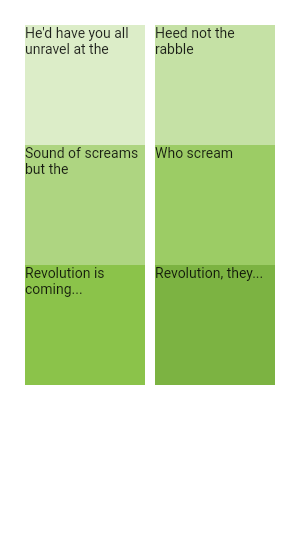
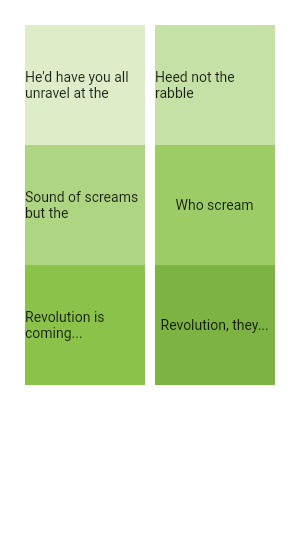
Center GridView text

diff --git a/packages/diagrams/lib/src/grid_view.dart b/packages/diagrams/lib/src/grid_view.dart
@@ -31,12 +31,12 @@ class GridViewDiagram extends StatelessWidget implements DiagramMetadata {
           crossAxisSpacing: 10.0,
           crossAxisCount: 2,
           children: <Widget>[
-            Container(child: const Text('He\'d have you all unravel at the'), color: Colors.teal[100]),
-            Container(child: const Text('Heed not the rabble'), color: Colors.teal[200]),
-            Container(child: const Text('Sound of screams but the'), color: Colors.teal[300]),
-            Container(child: const Text('Who scream'), color: Colors.teal[400]),
-            Container(child: const Text('Revolution is coming...'), color: Colors.teal[500]),
-            Container(child: const Text('Revolution, they...'), color: Colors.teal[600]),
+            Container(child: const Center(child: Text('He\'d have you all unravel at the')), color: Colors.teal[100]),
+            Container(child: const Center(child: Text('Heed not the rabble')), color: Colors.teal[200]),
+            Container(child: const Center(child: Text('Sound of screams but the')), color: Colors.teal[300]),
+            Container(child: const Center(child: Text('Who scream')), color: Colors.teal[400]),
+            Container(child: const Center(child: Text('Revolution is coming...')), color: Colors.teal[500]),
+            Container(child: const Center(child: Text('Revolution, they...')), color: Colors.teal[600]),
           ],
         );
         break;
@@ -50,12 +50,12 @@ class GridViewDiagram extends StatelessWidget implements DiagramMetadata {
                 crossAxisSpacing: 10.0,
                 crossAxisCount: 2,
                 children: <Widget>[
-                  Container(child: const Text('He\'d have you all unravel at the'), color: Colors.lightGreen[100]),
-                  Container(child: const Text('Heed not the rabble'), color: Colors.lightGreen[200]),
-                  Container(child: const Text('Sound of screams but the'), color: Colors.lightGreen[300]),
-                  Container(child: const Text('Who scream'), color: Colors.lightGreen[400]),
-                  Container(child: const Text('Revolution is coming...'), color: Colors.lightGreen[500]),
-                  Container(child: const Text('Revolution, they...'), color: Colors.lightGreen[600]),
+                  Container(child: const Center(child: Text('He\'d have you all unravel at the')), color: Colors.lightGreen[100]),
+                  Container(child: const Center(child: Text('Heed not the rabble')), color: Colors.lightGreen[200]),
+                  Container(child: const Center(child: Text('Sound of screams but the')), color: Colors.lightGreen[300]),
+                  Container(child: const Center(child: Text('Who scream')), color: Colors.lightGreen[400]),
+                  Container(child: const Center(child: Text('Revolution is coming...')), color: Colors.lightGreen[500]),
+                  Container(child: const Center(child: Text('Revolution, they...')), color: Colors.lightGreen[600]),
                 ],
               ),
             ),
